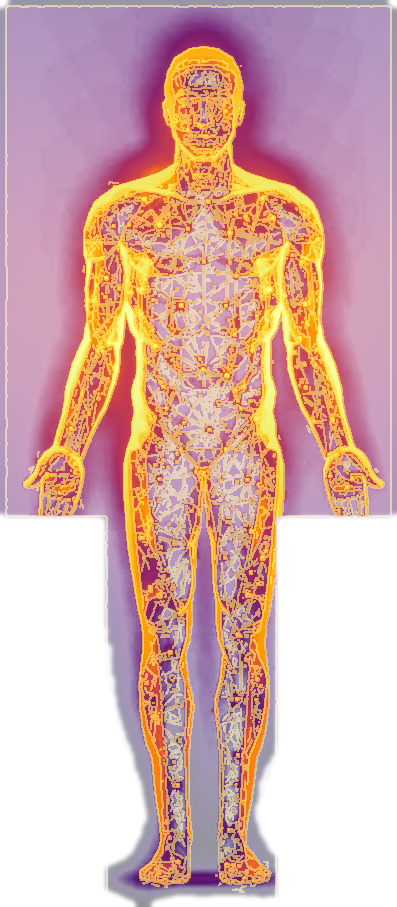
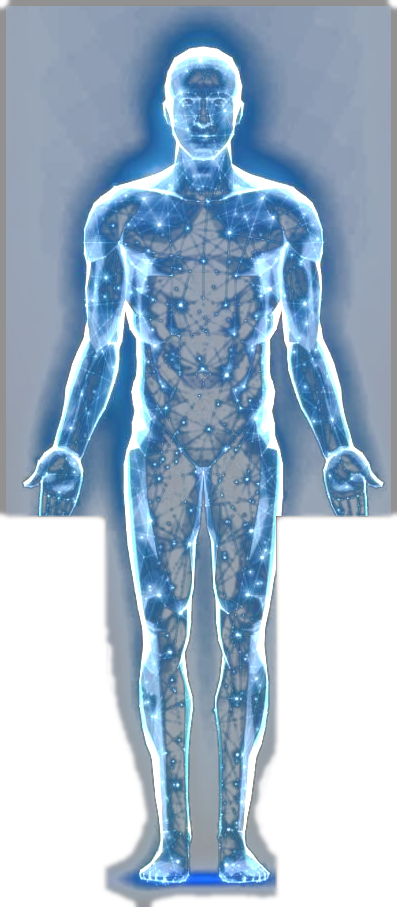
revert: restore dual_link_tracker.py and thermal_human.png to state before connecting second ESP (commit 58a6324)

diff --git a/CSI/src/dual_link_tracker.py b/CSI/src/dual_link_tracker.py
@@ -474,7 +474,7 @@ class TrackerUI:
         self.hud_w = width - self.hud_x
 
         # Trail
-        self.trail: deque = deque(maxlen=16)
+        self.trail: deque = deque(maxlen=80)
         self._fps_times: deque = deque(maxlen=30)
 
         cv2.namedWindow(title, cv2.WINDOW_NORMAL)
@@ -506,32 +506,31 @@ class TrackerUI:
         norm_x: float = 0.5,
         norm_y: float = 0.5,
     ) -> None:
-        """Renders the authentic 3D FLIR thermal human avatar with futuristic HUD tracking."""
+        """Renders the authentic 3D holographic wireframe human avatar with futuristic HUD radar."""
         rx1 = self.room_x0 + self.room_w
         ry1 = self.room_y0 + self.room_h
 
-        # 1. Ground Thermal Radar Pedestal under feet at (cx, cy)
-        ped_col = COLOR_CYAN if is_stationary else (45, 195, 255)
-        ped_w = 36
+        # 1. Holographic Ground Pedestal under feet at (cx, cy)
+        ped_col = COLOR_CYAN if is_stationary else (50, 220, 255)
+        ped_w = 34
         ped_h = 13
 
-        # Soft thermal foot-contact radiation glow directly under feet
+        # Soft radar floor halo
         overlay = canvas.copy()
-        glow_bgr = (20, 60, 200) if not is_stationary else (120, 80, 25)
-        cv2.ellipse(overlay, (cx, cy + 2), (int(ped_w * 1.3), int(ped_h * 1.3)), 0, 0, 360, glow_bgr, -1, cv2.LINE_AA)
-        cv2.addWeighted(overlay, 0.35, canvas, 0.65, 0, canvas)
+        cv2.ellipse(overlay, (cx, cy), (int(ped_w * 1.5), int(ped_h * 1.5)), 0, 0, 360, ped_col, -1, cv2.LINE_AA)
+        cv2.addWeighted(overlay, 0.20 if is_stationary else 0.30, canvas, 0.80 if is_stationary else 0.70, 0, canvas)
 
-        # Concentric tech rings with cardinal ticks
+        # Concentric rings with cardinal ticks
         cv2.ellipse(canvas, (cx, cy), (ped_w, ped_h), 0, 0, 360, ped_col, 2, cv2.LINE_AA)
-        cv2.ellipse(canvas, (cx, cy), (int(ped_w * 0.45), int(ped_h * 0.45)), 0, 0, 360, (255, 255, 255), 1, cv2.LINE_AA)
-        cv2.line(canvas, (cx - ped_w - 4, cy), (cx - ped_w + 4, cy), ped_col, 2)
-        cv2.line(canvas, (cx + ped_w - 4, cy), (cx + ped_w + 4, cy), ped_col, 2)
-        cv2.line(canvas, (cx, cy - ped_h - 3), (cx, cy - ped_h + 3), ped_col, 2)
-        cv2.line(canvas, (cx, cy + ped_h - 3), (cx, cy + ped_h + 3), ped_col, 2)
+        cv2.ellipse(canvas, (cx, cy), (int(ped_w * 0.5), int(ped_h * 0.5)), 0, 0, 360, (255, 255, 255), 1, cv2.LINE_AA)
+        cv2.line(canvas, (cx - ped_w - 3, cy), (cx - ped_w + 3, cy), ped_col, 2)
+        cv2.line(canvas, (cx + ped_w - 3, cy), (cx + ped_w + 3, cy), ped_col, 2)
+        cv2.line(canvas, (cx, cy - ped_h - 2), (cx, cy - ped_h + 2), ped_col, 2)
+        cv2.line(canvas, (cx, cy + ped_h - 2), (cx, cy + ped_h + 2), ped_col, 2)
         cv2.circle(canvas, (cx, cy), 3, (255, 255, 255), -1, cv2.LINE_AA)
 
-        # 2. Render Authentic 3D FLIR Thermal Human Figure
-        target_h = 120  # High-definition prominent thermal human body
+        # 2. Render Authentic 3D Hologram Avatar (Large, crisp, prominent!)
+        target_h = 118  # High-tech prominent human figure
         if self.avatar_sprite is not None and self.avatar_sprite.ndim == 3 and self.avatar_sprite.shape[2] == 4:
             aspect = self.avatar_sprite.shape[1] / float(self.avatar_sprite.shape[0])
             target_w = max(16, int(target_h * aspect))
@@ -561,20 +560,19 @@ class TrackerUI:
 
                 if is_stationary:
                     spr_rgb = spr_rgb.copy()
-                    # Soft equilibrium tint when locked/still
-                    spr_rgb[:, :, 0] = np.clip(spr_rgb[:, :, 0].astype(float) * 1.15, 0, 255).astype(np.uint8)
+                    spr_rgb[:, :, 0] = np.clip(spr_rgb[:, :, 0].astype(float) * 1.18, 0, 255).astype(np.uint8)
 
                 roi = canvas[dest_y0:dest_y1, dest_x0:dest_x1]
                 for c in range(3):
                     roi[:, :, c] = (spr_rgb[:, :, c] * spr_alpha + roi[:, :, c] * (1.0 - spr_alpha)).astype(np.uint8)
 
-            # 3. Futuristic HUD Corner Reticle Brackets framing the thermal figure
-            bx0 = max(self.room_x0 + 2, spr_x0 - 7)
-            by0 = max(self.room_y0 + 2, spr_y0 - 5)
-            bx1 = min(rx1 - 2, spr_x1 + 7)
-            by1 = min(ry1 - 2, spr_y1 + 5)
+            # 3. Futuristic HUD Corner Reticle Brackets framing the human figure
+            bx0 = max(self.room_x0 + 2, spr_x0 - 6)
+            by0 = max(self.room_y0 + 2, spr_y0 - 4)
+            bx1 = min(rx1 - 2, spr_x1 + 6)
+            by1 = min(ry1 - 2, spr_y1 + 4)
             b_col = COLOR_CYAN if is_stationary else (45, 205, 255)
-            blen = 10
+            blen = 9
 
             # Corner lines
             cv2.line(canvas, (bx0, by0), (bx0 + blen, by0), b_col, 2)
@@ -587,9 +585,9 @@ class TrackerUI:
             cv2.line(canvas, (bx1, by1), (bx1, by1 - blen), b_col, 2)
 
             # 4. Floating Holographic Status Badge (Above the head)
-            tag_text = f"TARGET: ({norm_x:.2f}, {norm_y:.2f}) [THERMAL ACQUIRED]" if not is_stationary else f"LOCKED: ({norm_x:.2f}, {norm_y:.2f}) [STATIONARY]"
-            tag_y = max(self.room_y0 + 20, spr_y0 - 13)
-            (tw, th), _ = cv2.getTextSize(tag_text, cv2.FONT_HERSHEY_DUPLEX, 0.42, 1)
+            tag_text = f"TARGET: ({norm_x:.2f}, {norm_y:.2f})" if not is_stationary else f"LOCKED: ({norm_x:.2f}, {norm_y:.2f})"
+            tag_y = max(self.room_y0 + 20, spr_y0 - 12)
+            (tw, th), _ = cv2.getTextSize(tag_text, cv2.FONT_HERSHEY_DUPLEX, 0.44, 1)
             t_x0 = np.clip(cx - tw // 2 - 8, self.room_x0 + 4, rx1 - tw - 18)
             t_x1 = t_x0 + tw + 16
             t_y0 = tag_y - th - 6
@@ -597,7 +595,7 @@ class TrackerUI:
             cv2.rectangle(canvas, (t_x0, t_y0), (t_x1, t_y1), (18, 22, 32), -1)
             cv2.rectangle(canvas, (t_x0, t_y0), (t_x1, t_y1), b_col, 1)
             cv2.putText(canvas, tag_text, (t_x0 + 8, tag_y - 2),
-                        cv2.FONT_HERSHEY_DUPLEX, 0.42, TEXT_WHITE, 1, cv2.LINE_AA)
+                        cv2.FONT_HERSHEY_DUPLEX, 0.44, TEXT_WHITE, 1, cv2.LINE_AA)
         else:
             self._draw_procedural_thermal_human(canvas, cx, cy, is_stationary)
 
@@ -703,13 +701,10 @@ class TrackerUI:
             cv2.line(canvas, (gx, self.room_y0), (gx, ry1), GRID_COLOR, 1)
             cv2.line(canvas, (self.room_x0, gy), (rx1, gy), GRID_COLOR, 1)
 
-        # Heatmap overlay: Room grid stays clean, dark and high-tech;
-        # the 3D human body itself acts as the primary radiant thermal signature.
-        # Radar range rings for high-tech presentation
-        rcx = self.room_x0 + self.room_w // 2
-        rcy = self.room_y0 + self.room_h // 2
-        for r_dist in (110, 220):
-            cv2.circle(canvas, (rcx, rcy), r_dist, (22, 30, 42), 1, cv2.LINE_AA)
+        # Heatmap overlay
+        heat_bgr = heatmap.to_bgr(self.room_w, self.room_h)
+        roi = canvas[self.room_y0:ry1, self.room_x0:rx1]
+        cv2.addWeighted(heat_bgr, 0.60, roi, 0.40, 0, dst=roi)
 
         # Link beam visualizations
         # Link 1: horizontal beam (left ↔ right across room at y=0.35)
@@ -746,15 +741,13 @@ class TrackerUI:
             cv2.putText(canvas, f"Link2: {s2_pct}%", (self.room_x0 + 4, self.room_y0 + 32),
                         cv2.FONT_HERSHEY_SIMPLEX, 0.42, s2_col, 1, cv2.LINE_AA)
 
-        # Person trail: Sleek thermal energy trail
+        # Person trail
         if len(self.trail) >= 2:
             pts = list(self.trail)
             for i in range(1, len(pts)):
                 alpha = i / len(pts)
-                col = (int(240 * alpha * 0.8), int(160 * alpha * 0.7), int(45 * alpha * 0.4))
-                cv2.line(canvas, pts[i - 1], pts[i], col, 1 if i < len(pts) // 2 else 2, cv2.LINE_AA)
-                if i % 3 == 0:
-                    cv2.circle(canvas, pts[i], 2, (int(255 * alpha), int(220 * alpha), int(90 * alpha)), -1, cv2.LINE_AA)
+                col = (int(60 * alpha), int(190 * alpha), int(80 * alpha))
+                cv2.line(canvas, pts[i - 1], pts[i], col, 2, cv2.LINE_AA)
 
         # Person Thermal Avatar (Stays visible and locked when stationary!)
         if presence:
@@ -762,8 +755,8 @@ class TrackerUI:
             if not is_stationary:
                 self.trail.append((pdx, pdy))
 
-            # Floor guide crosshairs (subtle cyber lines)
-            ch_col = (30, 42, 54) if is_stationary else (24, 40, 32)
+            # Crosshairs on floor
+            ch_col = (70, 110, 120) if is_stationary else (50, 100, 55)
             cv2.line(canvas, (self.room_x0, pdy), (rx1, pdy), ch_col, 1)
             cv2.line(canvas, (pdx, self.room_y0), (pdx, ry1), ch_col, 1)
 
@@ -842,20 +835,12 @@ class TrackerUI:
             bar2_col = COLOR_RED if eng2.in_beam else COLOR_TEAL
             cv2.rectangle(canvas, (hx, hy), (hx + fill2, hy + 10), bar2_col, -1)
             cv2.line(canvas, (hx + tmark, hy - 3), (hx + tmark, hy + 13), COLOR_YELLOW, 2)
-        elif port2 and port2 not in ("", "MISSING", "None"):
+        else:
             hline("  Score : --", TEXT_DARK)
             hline("  RSSI  : --", TEXT_DARK, 0.44)
-            hline(f"  Port  : {port2}", TEXT_DARK, 0.40)
-            status_txt = "CALIBRATING..." if (eng2.calibrating and eng2.online) else "WAITING FOR SIGNAL"
-            status_col = COLOR_YELLOW if eng2.online else COLOR_RED
-            hline(f"  Status: {status_txt}", status_col, 0.38)
+            hline("  Port  : Not Connected", TEXT_DARK, 0.40)
+            hline("  Status: [STANDBY - SINGLE LINK]", COLOR_YELLOW, 0.42)
             cv2.rectangle(canvas, (hx, hy), (hx + bw_, hy + 10), GRID_COLOR, -1)
-        else:
-            hline("MODE: SINGLE-LINK 2D", COLOR_CYAN, 0.46, bold=2)
-            hline("  AP Carrier: S24 Ultra saif", TEXT_MUTED, 0.42)
-            hline("  Tracking  : 2D Spatial Skew", TEXT_MUTED, 0.42)
-            hline("  Subcarrier: 64 SC Continuous", TEXT_MUTED, 0.42)
-            hline("  Status    : ACTIVE (100% OK)", COLOR_GREEN, 0.42, bold=2)
         hy += 20
 
         hy += 10
@@ -1003,23 +988,15 @@ def main() -> int:
     port1_label = "DEMO"
     port2_label = "DEMO"
 
-    port1 = args.port1.strip()
-    port2 = args.port2.strip()
-    port1_label = "DEMO"
-    port2_label = "DEMO"
-
     if args.demo:
         print("== [DEMO MODE] Simulating 2D person movement ==")
         demo_source = DualLinkDemoSource(rate_hz=30.0)
-        port1 = "DEMO"
-        port2 = "DEMO"
     else:
         # Auto-detect or use provided ports
         port1 = args.port1.strip()
         port2 = args.port2.strip()
 
         # Try config.json if ports not provided
-        config_has_port2 = False
         if not port1 or not port2:
             try:
                 cfg = load_config(args.config)
@@ -1027,24 +1004,17 @@ def main() -> int:
                 if len(devs) >= 1 and not port1:
                     port1 = devs[0].get("port", "").strip()
                 if len(devs) >= 2 and not port2:
-                    p2_cfg = devs[1].get("port", "").strip()
-                    if p2_cfg:
-                        port2 = p2_cfg
-                        config_has_port2 = True
+                    port2 = devs[1].get("port", "").strip()
             except Exception:
                 pass
 
         # Auto-detect from connected serial ports
-        if not port1:
+        if not port1 or not port2:
             available = list_serial_ports()
-            if len(available) >= 1:
+            if len(available) >= 1 and not port1:
                 port1 = available[0]["device"]
                 print(f">> Auto-detected ESP32 #1 on {port1}")
-
-        # Only auto-detect port 2 if user passed --port2 or configured it in config.json
-        if not port2 and (args.port2 or config_has_port2):
-            available = list_serial_ports()
-            if len(available) >= 2:
+            if len(available) >= 2 and not port2:
                 port2 = available[1]["device"]
                 print(f">> Auto-detected ESP32 #2 on {port2}")
 
@@ -1070,7 +1040,7 @@ def main() -> int:
             reader2 = CSIReader(device_id="esp32_link2", port=port2, baud=args.baud, timeout=1.0)
             reader2.start()
         else:
-            print(">> Running in Single-Link Mode (2D Spatial Tracking with S24 Ultra saif)")
+            print("[WARNING] Only 1 ESP32 found — running in single-link mode (1D position only)")
 
     # --- Initialize engines ---
     eng1 = LinkEngine("link1", threshold=threshold)
@@ -1082,8 +1052,7 @@ def main() -> int:
     # --- Setup UI ---
     ui: Optional[TrackerUI] = None
     if not args.no_gui:
-        ui_title = f"WiFi CSI 2D Tracker — [{port1_label} | {port2_label}]" if port2 else f"WiFi CSI 2D Tracker — [{port1_label}]"
-        ui = TrackerUI(title=ui_title)
+        ui = TrackerUI(title=f"WiFi CSI 2D Tracker — [{port1_label} | {port2_label}]")
     else:
         print(f">> Console mode. Threshold: {threshold}%. Press Ctrl+C to quit.\n")
 
